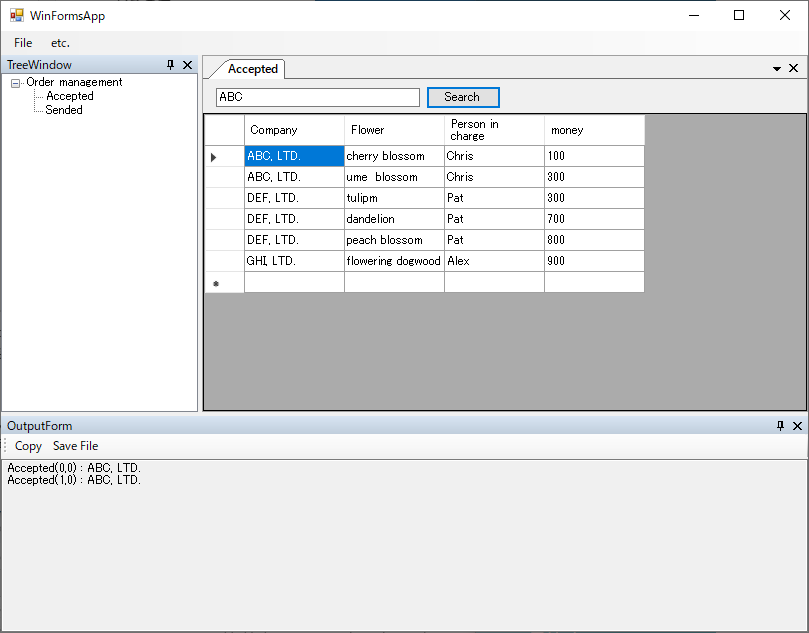
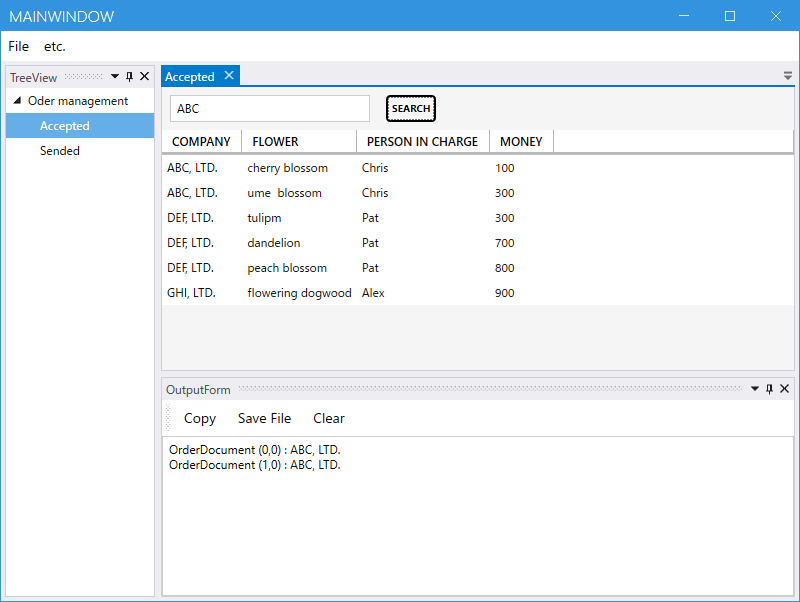
TreeViewModel作成など

diff --git a/WPF/WpfDockApp/TreeUserControl.xaml b/WPF/WpfDockApp/TreeUserControl.xaml
@@ -7,7 +7,22 @@
              mc:Ignorable="d" 
              d:DesignHeight="450" d:DesignWidth="800">
     <Grid>
-        <TreeView x:Name="TreeView">
+        <TreeView x:Name="TreeView" MouseDoubleClick="TreeView_MouseDoubleClick">
+            <TreeView.ContextMenu>
+                <ContextMenu>
+                    <MenuItem Header="Open" Click="MenuItem_Click"/>
+                </ContextMenu>
+            </TreeView.ContextMenu>
+            <TreeView.ItemTemplate>
+                <HierarchicalDataTemplate DataType="local:TreeViewModel" ItemsSource="{Binding Children}">
+                    <TextBlock Text="{Binding Name}" />
+                </HierarchicalDataTemplate>
+            </TreeView.ItemTemplate>
+            <TreeView.Resources>
+                <Style TargetType="TreeViewItem">
+                    <Setter Property="IsExpanded" Value="{Binding IsExpanded}" />
+                </Style>
+            </TreeView.Resources>
         </TreeView>
     </Grid>
 </UserControl>

diff --git a/WPF/WpfDockApp/TreeUserControl.xaml.cs b/WPF/WpfDockApp/TreeUserControl.xaml.cs
@@ -34,61 +34,26 @@ namespace WpfDockApp
         {
             if (this.TreeView?.Items?.Count == 0)
             {
-                var items = GetTreeViewItems();
-                foreach (var item in items)
-                {
-                    this.TreeView.Items.Add(item);
-                }
-                foreach (var data in this.TreeView.Items)
-                {
-                    var treeViewItem = data as TreeViewItem;
-                    foreach (var data2 in treeViewItem.Items)
-                    {
-                        var treeViewItem2 = data2 as TreeViewItem;
-                        treeViewItem2.MouseDoubleClick += TreeViewItem_MouseDoubleClick;
-                    }
-                }
+                this.TreeView.ItemsSource = GetTreeViewItems();
             }
         }
 
-        private void TreeViewItem_MouseDoubleClick(object sender, System.Windows.Input.MouseButtonEventArgs e)
+        public List<TreeViewModel> GetTreeViewItems()
         {
-            var treeViewItem = sender as TreeViewItem;
-            string header = (string)treeViewItem.Header;
-            MakeDocumentEvent?.Invoke(this, new MakeDocumentEventArgs(header, GetDocuments(header)));
-            e.Handled = true;
-        }
-
-        public TreeViewItem[] GetTreeViewItems()
-        {
-            var contextMenu1 = new ContextMenu();
-            var menuItem1 = new MenuItem();
-            menuItem1.Header = "Open";
-            menuItem1.Click += Open_Click;
-            menuItem1.Name = "Accepted";
-            contextMenu1.Items.Add(menuItem1);
-
-            var contextMenu2 = new ContextMenu();
-            var menuItem2 = new MenuItem();
-            menuItem2.Header = "Open";
-            menuItem2.Click += Open_Click;
-            menuItem2.Name = "Sended";
-            contextMenu2.Items.Add(menuItem2);
-
-            var treeViewItem = new TreeViewItem[]
+            var treeViewModels = new List<TreeViewModel>
             {
-                new TreeViewItem()
+                new TreeViewModel()
                 {
-                    Header = "Oder management",
+                    Name = "Oder management",
                     IsExpanded = true,
-                    ItemsSource = new TreeViewItem[]
+                    Children = new  List<TreeViewModel>
                     {
-                        new TreeViewItem() { Header = "Accepted", ContextMenu = contextMenu1},
-                        new TreeViewItem() { Header = "Sended", ContextMenu = contextMenu2},
+                        new TreeViewModel() { Name = "Accepted",IsExpanded = true,},
+                        new TreeViewModel() { Name = "Sended",IsExpanded = true,},
                     },
                 },
             };
-            return treeViewItem;
+            return treeViewModels;
         }
 
         private void Open_Click(object sender, RoutedEventArgs e)
@@ -127,6 +92,27 @@ namespace WpfDockApp
                     break;
             }
             return documents;
+        }
+
+        private void MenuItem_Click(object sender, RoutedEventArgs e)
+        {
+            var menuItem = sender as MenuItem;
+            if (menuItem != null)
+            {
+                var viewModel = (TreeViewModel)TreeView.SelectedItem;
+                MakeDocumentEvent?.Invoke(this, new MakeDocumentEventArgs(viewModel.Name, GetDocuments(viewModel.Name)));
+            }
+        }
+
+        private void TreeView_MouseDoubleClick(object sender, MouseButtonEventArgs e)
+        {
+            var viewModel = (TreeViewModel)TreeView.SelectedItem;
+            if (viewModel.Children == null)
+            {
+                string header = viewModel.Name;
+                MakeDocumentEvent?.Invoke(this, new MakeDocumentEventArgs(header, GetDocuments(header)));
+            }
+            e.Handled = true;
         }
     }
 }

diff --git a/WPF/WpfDockApp/MainWindow.xaml.cs b/WPF/WpfDockApp/MainWindow.xaml.cs
@@ -42,6 +42,7 @@ namespace WpfDockApp
                 var layoutDocument = new LayoutDocument();
                 layoutDocument.Title = e.Header;
                 var documentControl = new OrderDocumentUserControl();
+                documentControl.Title = e.Header;
                 documentControl.SearchEvent += DocumentControl_SearchEvent;
                 documentControl.SetDocument(documents);
                 layoutDocument.Content = documentControl;

diff --git a/WPF/WpfDockApp/TreeViewModel.cs b/WPF/WpfDockApp/TreeViewModel.cs
@@ -1,0 +1,17 @@
+using System;
+using System.Collections.Generic;
+using System.Linq;
+using System.Text;
+using System.Threading.Tasks;
+
+namespace WpfDockApp
+{
+    public class TreeViewModel
+    {
+        public string Name { get; set; }
+
+        public bool IsExpanded { get; set; }
+
+        public List<TreeViewModel> Children { get; set; }
+    }
+}

diff --git a/WPF/WpfDockApp/OrderDocumentUserControl.xaml.cs b/WPF/WpfDockApp/OrderDocumentUserControl.xaml.cs
@@ -23,6 +23,8 @@ namespace WpfDockApp
         public delegate void SearchEventHandler(object sender, SearchEventArgs e);
         public event SearchEventHandler SearchEvent;
 
+        public string Title { get; set; }
+
         public OrderDocumentUserControl()
         {
             InitializeComponent();
